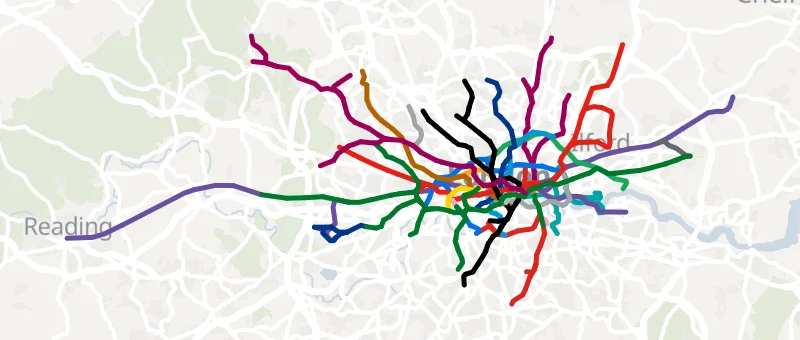
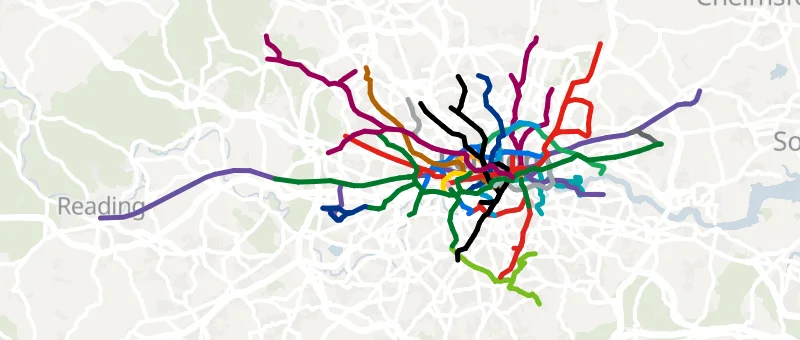
London's trams: 39 stops, opened route by route in May 2000
Track from OpenStreetMap's London Trams routes; dates from Wikipedia's Tramlink article: Croydon to New Addington round the town-centre loop on 10 May 2000, Beckenham Junction on 23 May, Wimbledon to Elmers End on 30 May; Centrale added on 10 December 2005. Wimbledon and West Croydon are one station with the District and the Overground. One line, London Trams, in TfL's tram green. The Bakerloo extension now ends at the trams' Beckenham Junction and Elmers End.

diff --git a/packages/data/test/unit/cities/unitedKingdom/london.test.ts b/packages/data/test/unit/cities/unitedKingdom/london.test.ts
@@ -123,6 +123,13 @@ describe('London', () => {
       expect(index.lineSegmentsAt(station).some(lineSegment => lineSegment.line === 'dlr')).toBe(true);
   });
 
+  test('opens the trams in May 2000 a route at a time, Centrale added in 2005', () => {
+    for (const date of ['2000-05-10', '2000-05-23', '2000-05-30']) expect(stepsOn(date).some(step => step.kind === 'open' && step.line === 'tram')).toBe(true);
+    expect(stepsOn('2005-12-10').some(step => step.kind === 'infill' && step.station === 'centrale')).toBe(true);
+    // Wimbledon and West Croydon are one station with the District and the Overground.
+    for (const station of ['wimbledon', 'west-croydon']) expect(index.lineSegmentsAt(station).some(lineSegment => lineSegment.line === 'tram')).toBe(true);
+  });
+
   test('turns the Stanmore branch from Bakerloo to Jubilee before the 1979 tunnel opens', () => {
     const steps = stepsOn('1979-05-01');
     expect(steps[0]?.kind).toBe('identity');
@@ -195,8 +202,8 @@ describe('London', () => {
 
   test('is at its known size today', () => {
     const snapshot = snapshotOf(playbackOf(london));
-    expect(snapshot.stats.stations).toBe(423);
-    expect(snapshot.stats.lines).toBe(19);
+    expect(snapshot.stats.stations).toBe(460);
+    expect(snapshot.stats.lines).toBe(20);
   });
 
   test('plays its whole history, every step, drawing frames without errors', () => {
